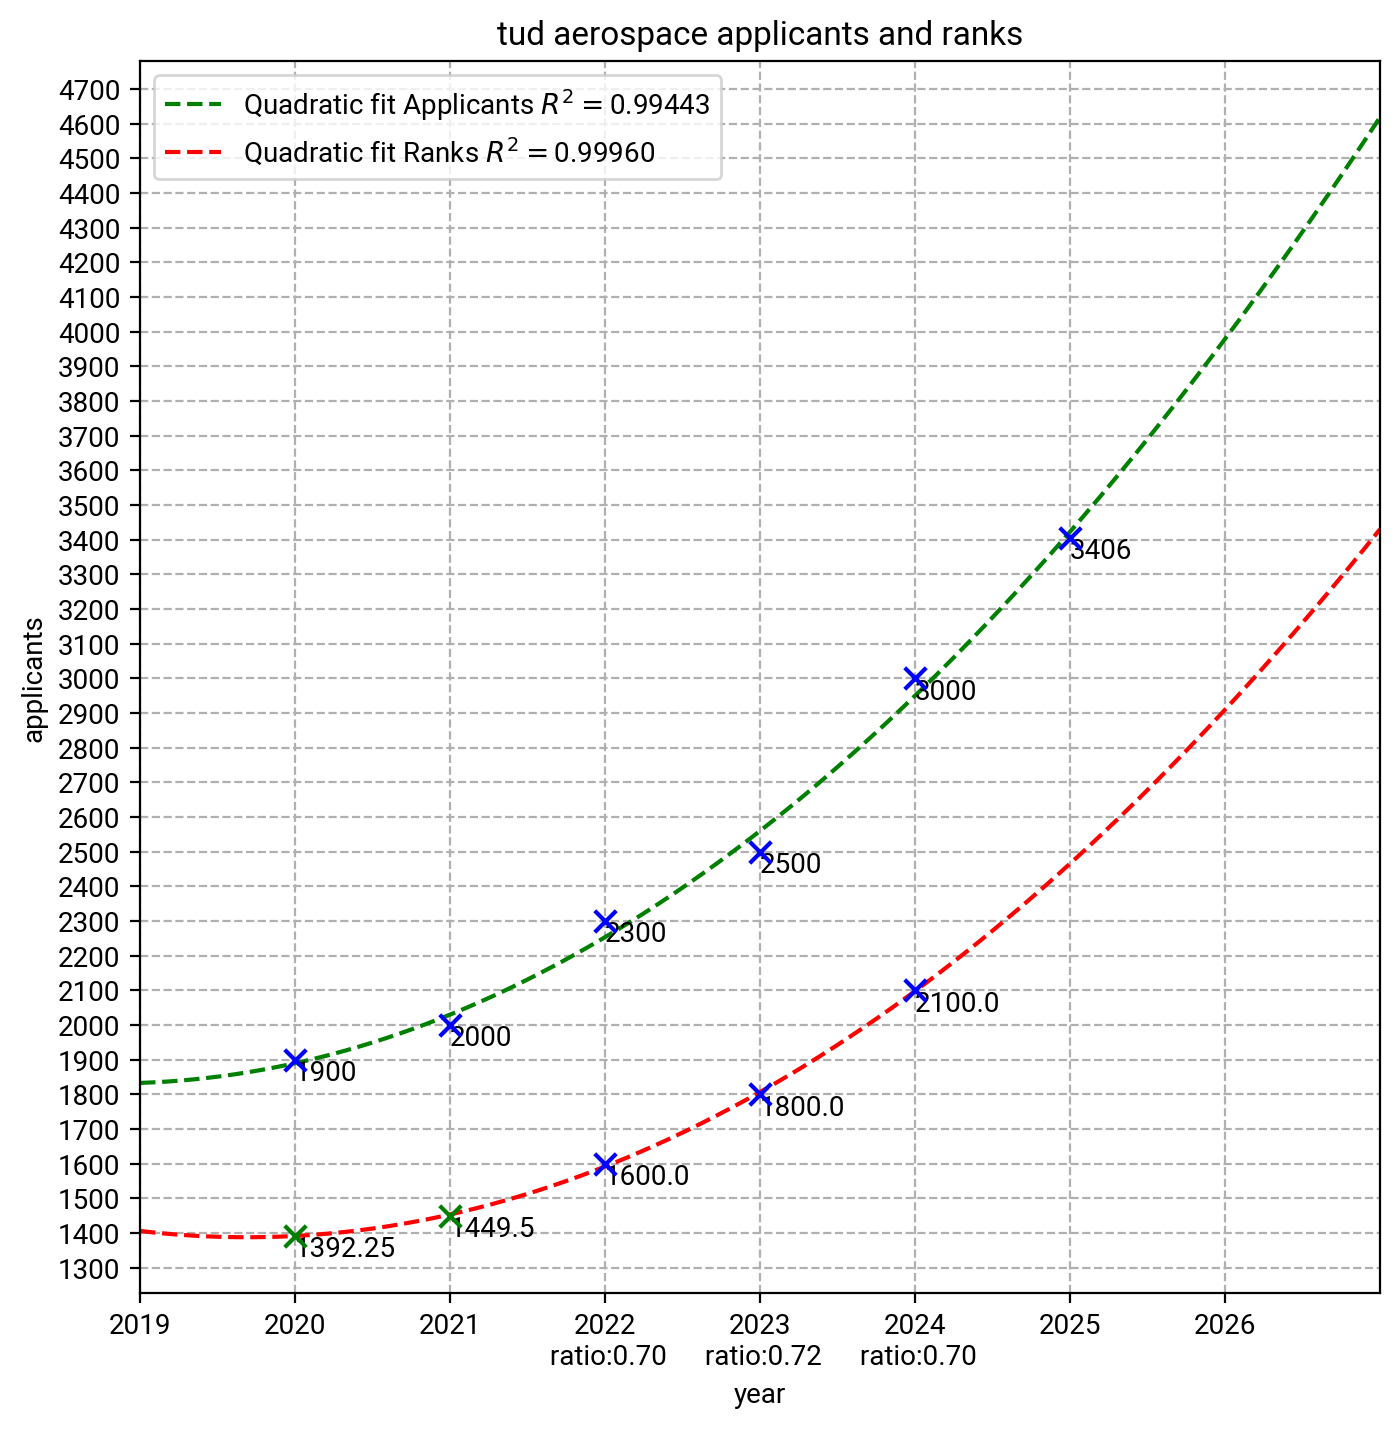
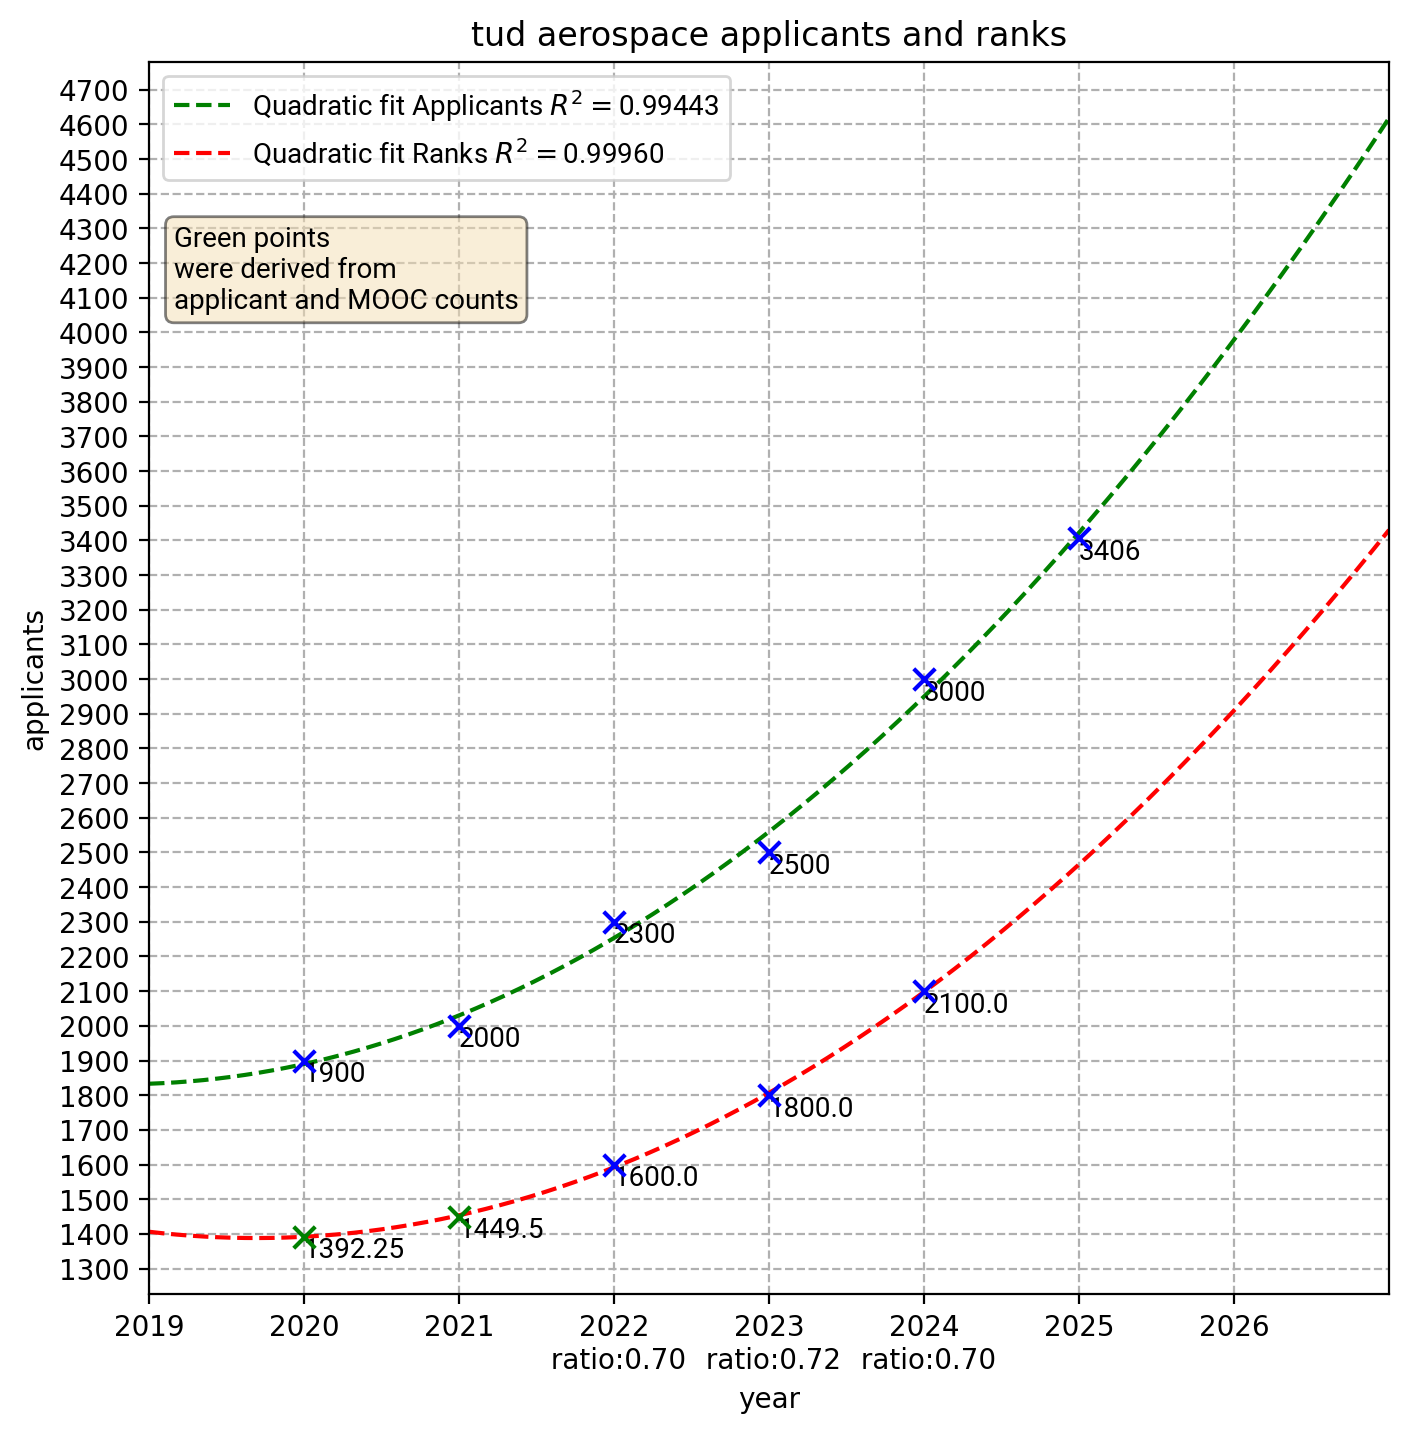
whoops forgot the disclaimer for derived rank counts

diff --git a/applicantcount/poly.py b/applicantcount/poly.py
@@ -124,6 +124,12 @@ plt.scatter(
     color="green",
     s=60.0,
     zorder=10)
+plt.text(0.02,0.84,
+    "Green points were derived from \napplicant and MOOC counts",
+    bbox=dict(boxstyle='round', facecolor='wheat', alpha=0.5),
+    transform=ax.transAxes
+    )
+
 
 plt.scatter(
     _filtered["year"],
